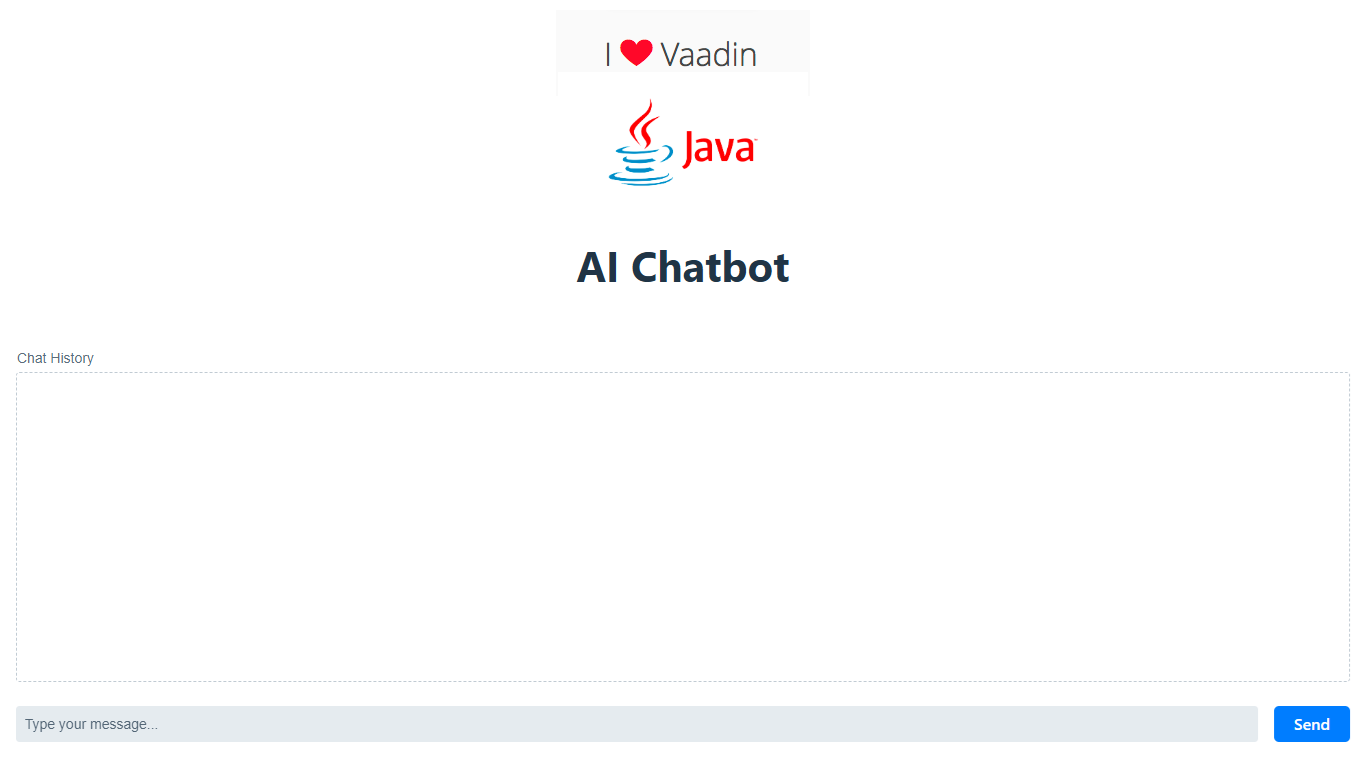
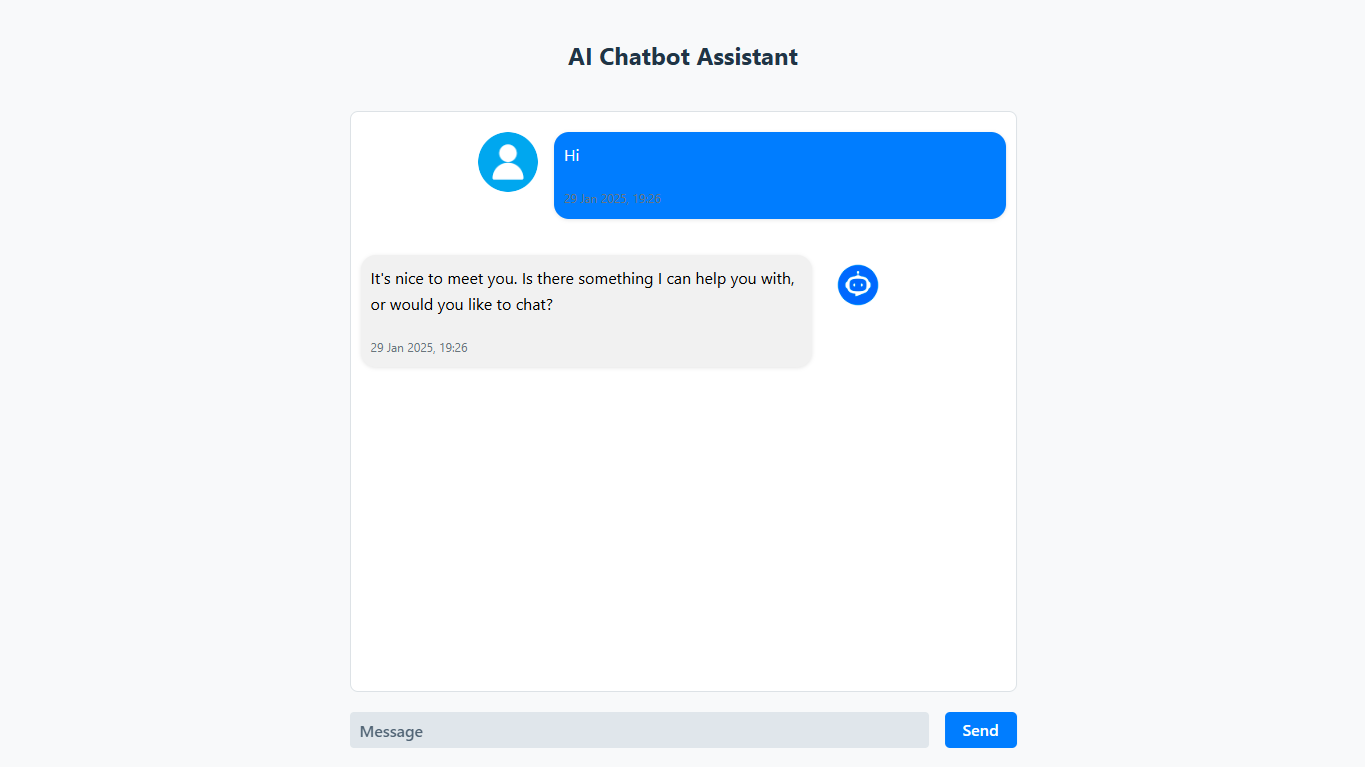
Improved version version 1.0 of the spring boot AI Chatbot

diff --git a/src/content/work/nested/springbot-ai.md b/src/content/work/nested/springbot-ai.md
@@ -15,7 +15,7 @@ tags:
 
 ---
[1 lines of base64/hex data omitted]
-<img src="https://logotyp.us/file/vaadin.svg" width="120px">
[1 lines of base64/hex data omitted]
 <img src="https://du0ulnyus7r80.cloudfront.net/wp-content/uploads/2020/02/spring-boot-logo-png-4-transparent.png" width="120px" height="20px">
 
-<a href="https://springbot-ai.onrender.com/" class="inline-block mt-6 px-10 py-4 text-white bg-blue-600 text-lg font-bold rounded-full hover:bg-blue-700 transition duration-200">Visit AI Chatbot Now</a>
+<a href="https://springbotai-v1-0.onrender.com/" class="inline-block mt-6 px-10 py-4 text-white bg-blue-600 text-lg font-bold rounded-full hover:bg-blue-700 transition duration-200">Visit AI Chatbot Now</a>
